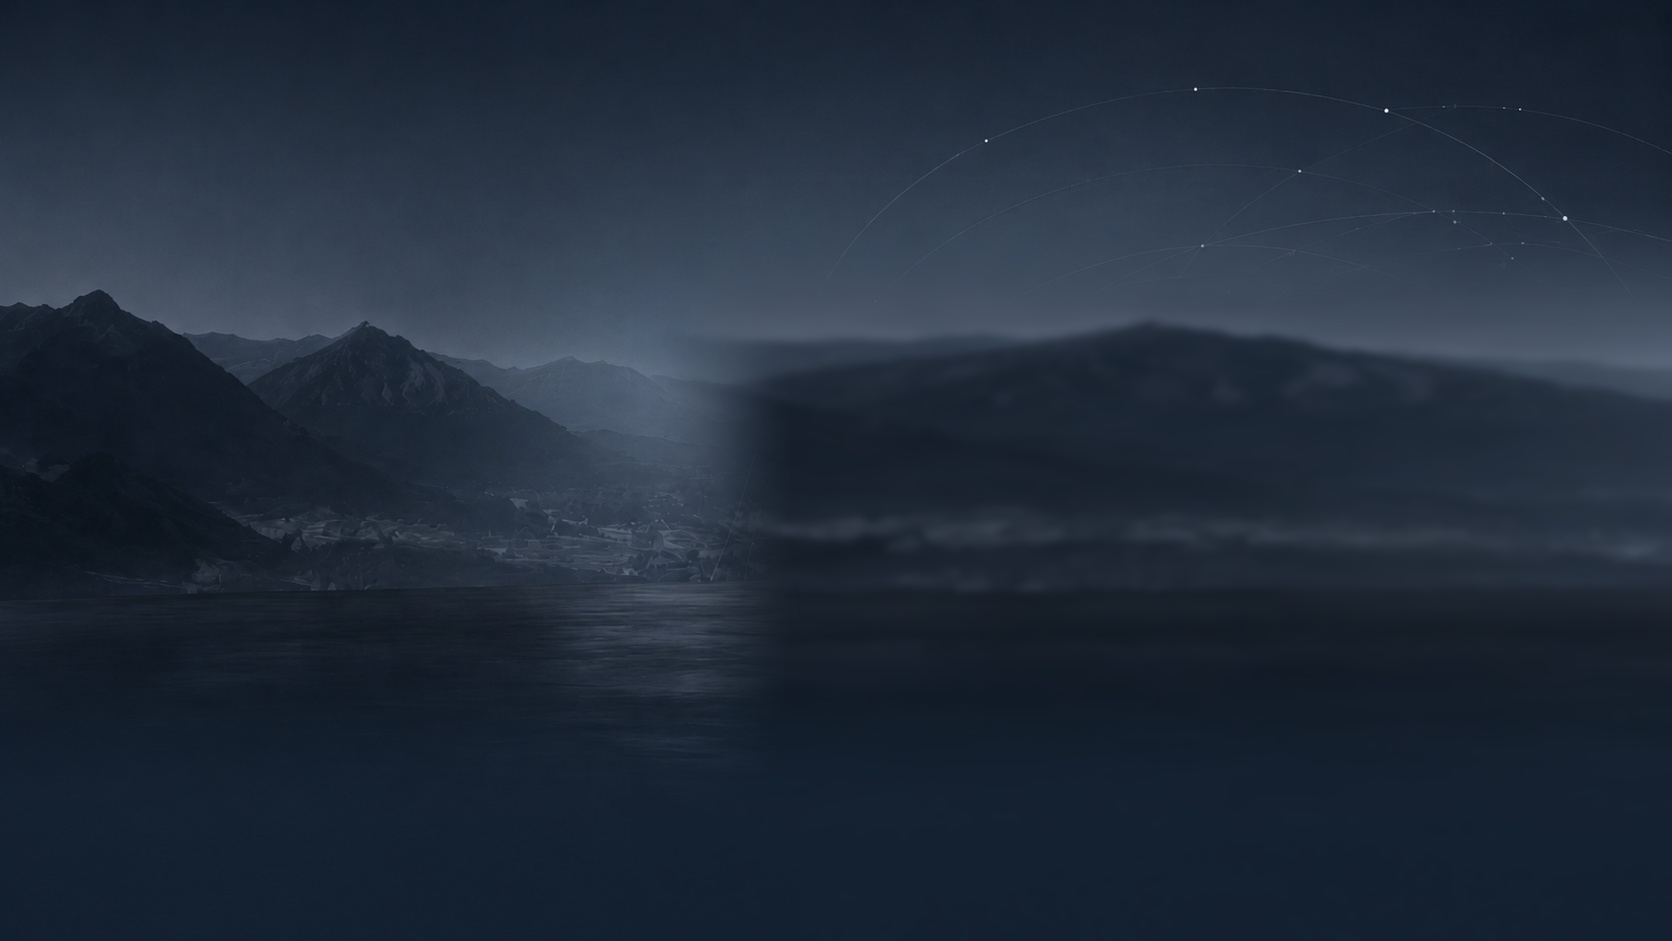
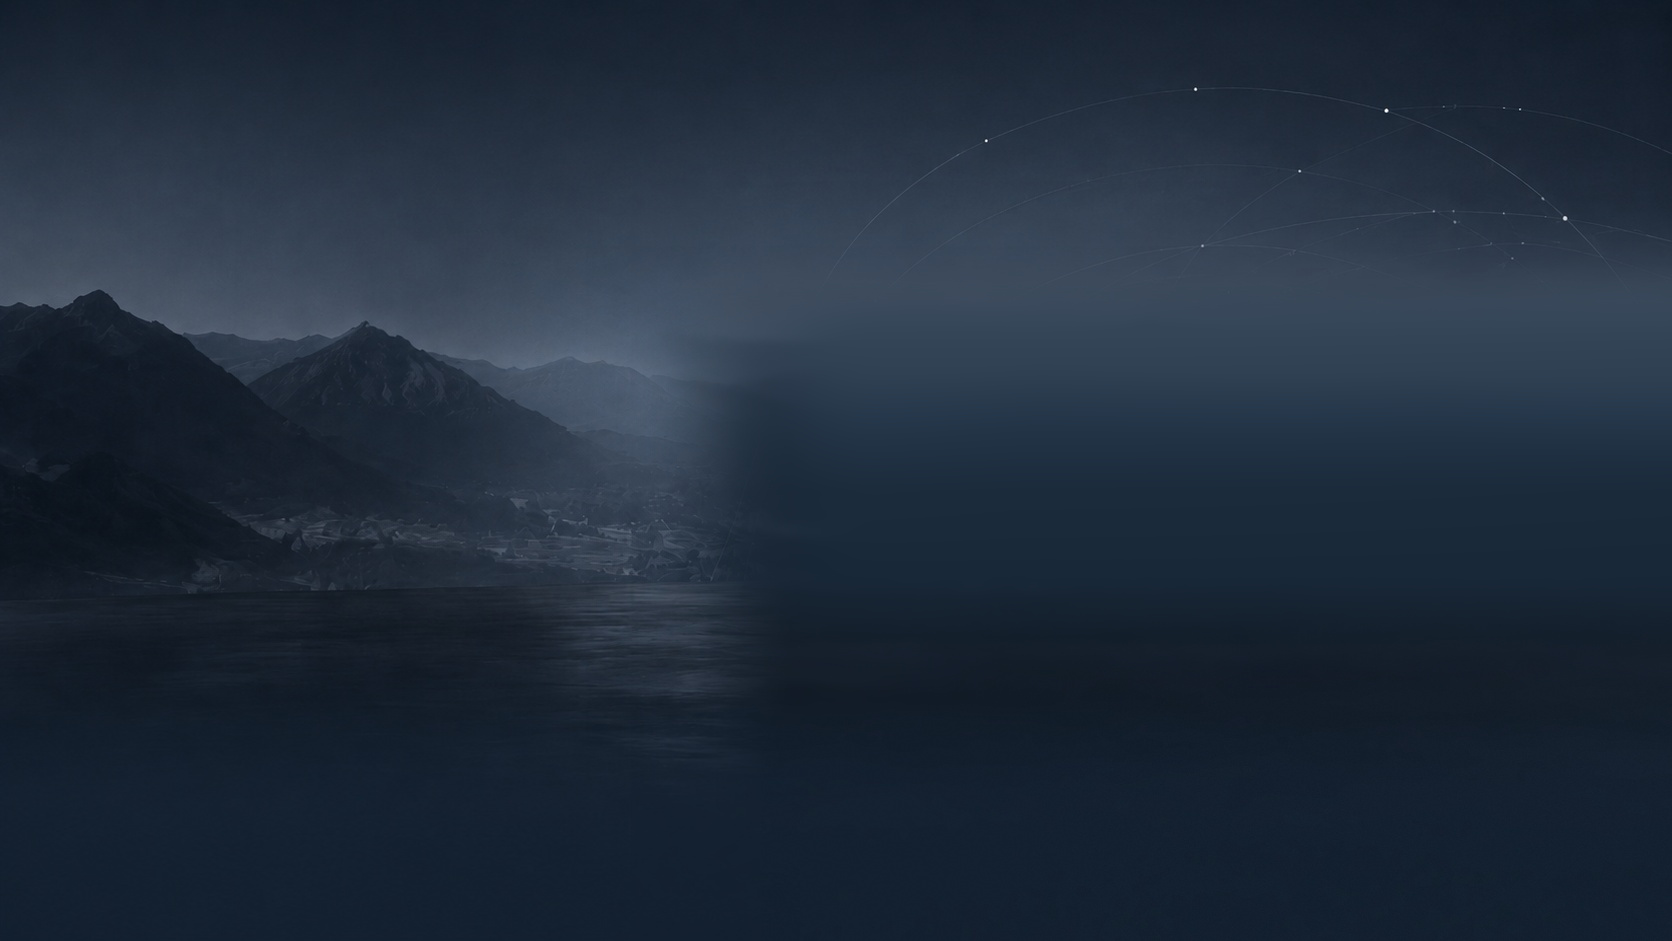
hero image v2

diff --git a/assets/css/hero.css b/assets/css/hero.css
@@ -920,3 +920,86 @@ body.home .site-footer {
     .hero--layered .hero__car-stage { transform: none !important; transition: none !important; }
     .hero--layered .hero__spotlight { display: none; }
 }
+
+
+/* =========================================================
+   HERO V2.1 — deliberate detail polish (preview)
+   Car, road contact shadow and background remain separate.
+   ========================================================= */
+.hero--layered .hero__ground {
+    position: absolute;
+    inset: 0;
+    z-index: 0;
+    width: 100%;
+    height: 100%;
+    display: block;
+    object-fit: cover;
+    object-position: center;
+    pointer-events: none;
+}
+.hero--layered .hero__car-stage { z-index: 1; }
+.hero--layered .hero__spotlight { z-index: 2; }
+/* The vehicle is physically anchored: no up/down cursor travel. */
+.hero--layered {
+    --klaben-shift-y: 0px;
+    --klaben-light-x: 78%;
+    --klaben-light-y: 47%;
+}
+.hero--layered .hero__car-stage {
+    transition: transform 520ms cubic-bezier(.22,.7,.3,1);
+}
+.hero--layered .hero__car {
+    animation: klaben-grounded-reveal 1400ms cubic-bezier(.18,.67,.2,1) both;
+    filter: drop-shadow(0 8px 10px rgba(4, 11, 17, .24));
+}
+@keyframes klaben-grounded-reveal {
+    0% { opacity: .04; transform: translateY(7px) scale(.998); filter: brightness(.48); }
+    58% { opacity: .94; }
+    100% { opacity: 1; transform: translateY(0) scale(1); filter: brightness(1); }
+}
+/* Compact spec cards sit ABOVE the roof instead of on the windshield. */
+@media (min-width: 901px) {
+    body.home .hero--layered .hero__cards {
+        top: 124px;
+        right: clamp(38px, 12vw, 215px);
+        width: 354px;
+        gap: 9px;
+        animation: klaben-spec-group-in 800ms 500ms both;
+    }
+    .hero--layered .hero-stat {
+        min-height: 77px;
+        padding: 11px 12px;
+        gap: 9px;
+        border-radius: 12px;
+        background: linear-gradient(145deg, rgba(135,158,182,.14), rgba(13,27,41,.60));
+        border-color: rgba(203,222,242,.14);
+        backdrop-filter: blur(14px);
+        -webkit-backdrop-filter: blur(14px);
+    }
+    .hero--layered .hero-stat__icon {
+        width: 29px;
+        height: 29px;
+        flex-basis: 29px;
+    }
+    .hero--layered .hero-stat__icon svg { width: 25px; height: 25px; }
+    .hero--layered .hero-stat__value { font-size: 15px; }
+    .hero--layered .hero-stat__value--small { font-size: 12px; }
+    .hero--layered .hero-stat__label { font-size: 10px; }
+}
+@keyframes klaben-spec-group-in {
+    from { opacity: 0; translate: 0 9px; }
+    to { opacity: 1; translate: 0 0; }
+}
+/* No ground movement/zoom for touch screens. */
+@media (max-width: 900px) {
+    .hero--layered .hero__ground { object-position: 64% center; }
+    body.home .hero--layered .hero__cards { animation: none; }
+}
+@media (max-width: 650px) {
+    .hero--layered .hero__ground { object-position: 68% center; }
+}
+@media (prefers-reduced-motion: reduce) {
+    .hero--layered .hero__car,
+    .hero--layered .hero__cards { animation: none !important; }
+    .hero--layered .hero__car-stage { transition: none !important; }
+}

diff --git a/assets/js/layered-hero.js b/assets/js/layered-hero.js
@@ -13,7 +13,7 @@
         frame = 0;
         hero.style.setProperty('--klaben-shift-x', '0px');
         hero.style.setProperty('--klaben-shift-y', '0px');
-        hero.style.setProperty('--klaben-light-x', '75%');
+        hero.style.setProperty('--klaben-light-x', '78%');
         hero.style.setProperty('--klaben-light-y', '47%');
     }
 
@@ -24,11 +24,11 @@
         const y = Math.max(0, Math.min(1, (event.clientY - rect.top) / rect.height));
         if (frame) cancelAnimationFrame(frame);
         frame = requestAnimationFrame(() => {
-            // Less than 8 px at the extremes: depth without a floating vehicle.
-            hero.style.setProperty('--klaben-shift-x', `${((x - .5) * -12).toFixed(1)}px`);
-            hero.style.setProperty('--klaben-shift-y', `${((y - .5) * -7).toFixed(1)}px`);
-            hero.style.setProperty('--klaben-light-x', `${(x * 100).toFixed(1)}%`);
-            hero.style.setProperty('--klaben-light-y', `${(y * 100).toFixed(1)}%`);
+            // Up to 3px of horizontal drift, no vertical movement: keep tyre contact.
+            hero.style.setProperty('--klaben-shift-x', `${((x - .5) * -6).toFixed(1)}px`);
+            hero.style.setProperty('--klaben-shift-y', '0px');
+            hero.style.setProperty('--klaben-light-x', `${(60 + x * 35).toFixed(1)}%`);
+            hero.style.setProperty('--klaben-light-y', `${(40 + y * 20).toFixed(1)}%`);
             frame = 0;
         });
     }, { passive: true });

diff --git a/front-page.php b/front-page.php
@@ -47,6 +47,14 @@ $hero_car_cutout = get_theme_file_uri('/assets/images/hero/klaben-mercedes-layer
 >
     <!-- Layers use the same canvas proportions so the car aligns with the scene. -->
     <div class="hero__visual" aria-hidden="true">
+        <img
+            class="hero__ground"
+            src="<?php echo esc_url(get_theme_file_uri('/assets/images/hero/klaben-ground-layer.png')); ?>"
+            alt=""
+            width="1672"
+            height="941"
+            decoding="async"
+        >
         <div class="hero__car-stage">
             <img
                 class="hero__car"
